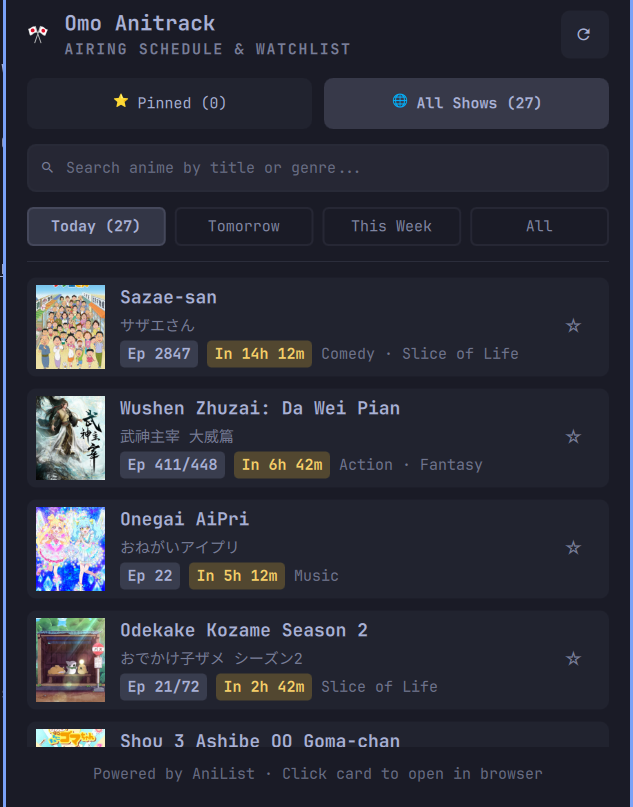
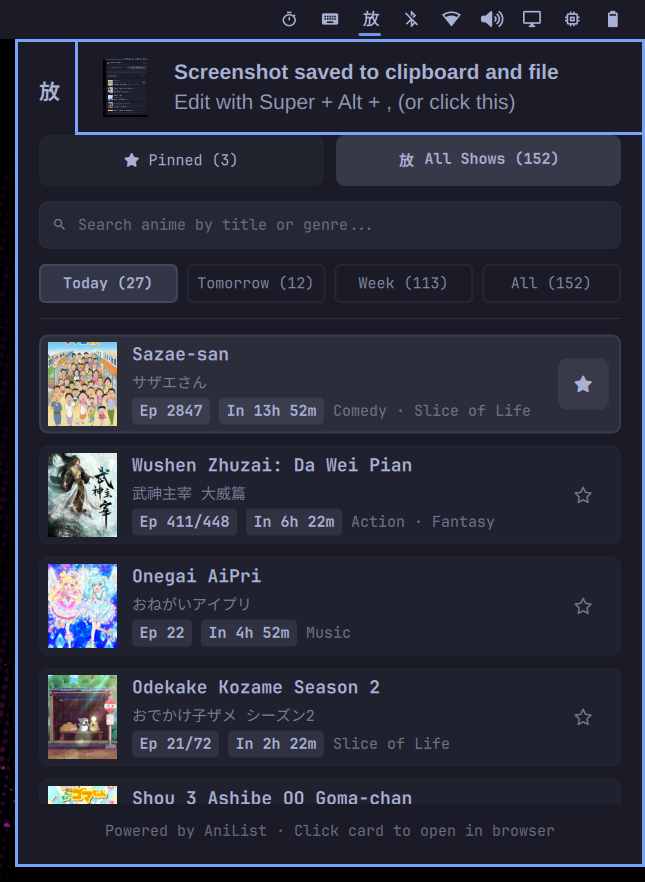
docs: embed updated clean screenshot into README

diff --git a/README.md b/README.md
@@ -1,20 +1,25 @@
-# 🎌 Omo Anitrack (`omo-anitrack`)
+# 放 Omo Anitrack (`omo-anitrack`)
 
 A sleek, native status bar widget and popover schedule tracker for **currently airing anime**, live release countdowns, and personal watchlists on **Omarchy Quattro**.
 
 Powered by the free, public **AniList GraphQL API**.
 
+<p align="center">
+  <img src="preview.png" alt="Omo Anitrack Preview" width="480">
+</p>
+
 ---
 
 ## ✨ Features
 
-- **Live Release Countdowns**: Accurate countdowns (`🟢 In 35m`, `🟡 Tomorrow`, `⚪ Aired`) calculated locally with zero network battery drain.
+- **放 Native Omarchy Aesthetic**: Minimalist, monochromatic design matching Omarchy's typography with zero colored emoji clutter.
+- **Live Release Countdowns**: Accurate countdowns (`In 2h 40m`, `In 13h 52m`, `Aired 1h ago`) calculated locally.
 - **🔍 Instant Live Search**: Search anime in real-time across Romaji, English, Japanese native titles, and genres.
-- **⭐ Pinned Watchlist**: Star your favorite seasonal shows to track only what you watch in the **Pinned** tab.
-- **Multi-Day Schedule**: Easily switch between **Today**, **Tomorrow**, and **This Week**.
-- **Rich Anime Cards**: HD cover thumbnails, Romaji and Japanese native titles, episode pills (`Ep 8 / 12`), and genre tags.
+- ** Pinned Watchlist**: 1-click star your favorite seasonal shows to track only what you watch in the **Pinned** tab.
+- **Multi-Day Schedule Breakdown**: Dynamic filter tabs for **Today**, **Tomorrow**, **Week**, and **All** with show counters.
+- **Rich Anime Cards**: HD cover thumbnails, Romaji and Japanese native titles, episode pills (`Ep 10 / 12`), and genre tags.
 - **1-Click Links**: Click any anime card to open its official AniList page in your default browser.
-- **Dynamic Bar Badge**: Highlights how many of your pinned shows (or all shows) air today.
+- **Gentle Status Feedback**: Sweeping progress bar indicator during updates and desktop notifications on fetch completion.
 - **Zero Configuration**: Works 100% out of the box with zero API keys or accounts required.
 
 ---
@@ -65,9 +70,9 @@ omarchy plugin remove paisen.omo-anitrack
 
 | Action | Shortcut / Gesture |
 |---|---|
-| **Open Schedule Panel** | Left-Click on Bar Icon (`🎌`) |
-| **Instant Force Refresh** | Right-Click / Middle-Click on Bar Icon |
-| **Star / Pin Anime** | Click `⭐` on any Anime Card |
+| **Open Schedule Panel** | Left-Click on Bar Icon (`放`) |
+| **Instant Force Refresh** | Right-Click / Middle-Click on Bar Icon or Click Refresh Button |
+| **Star / Pin Anime** | Click `` on any Anime Card |
 | **Open on AniList** | Left-Click on the Anime Card |
 
 ---
